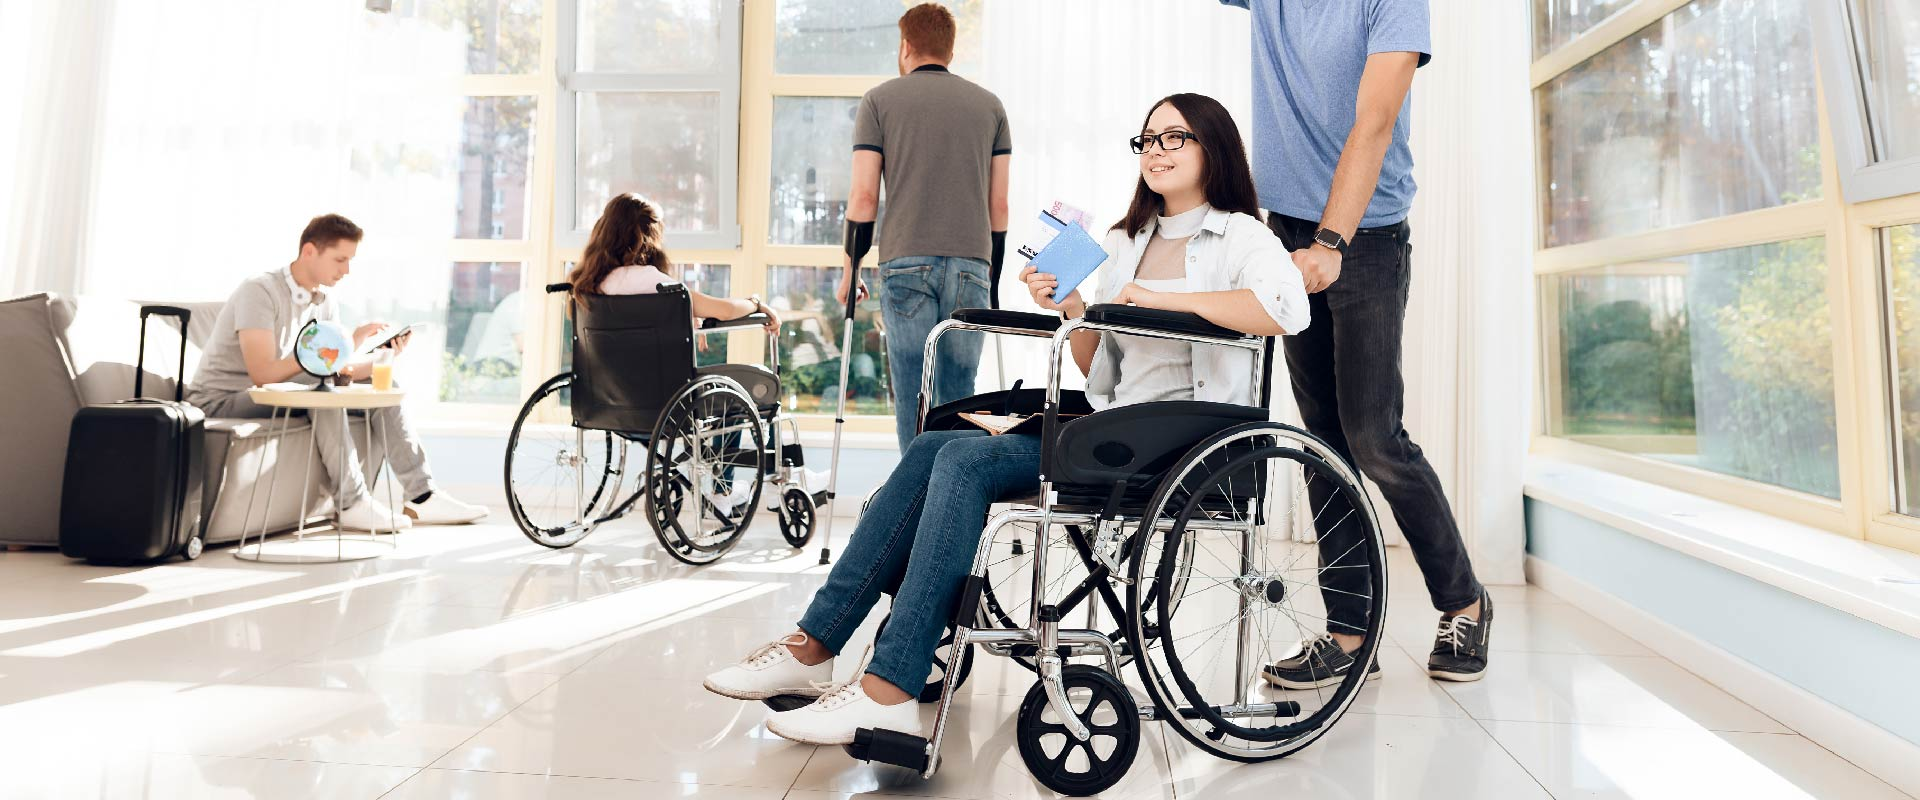
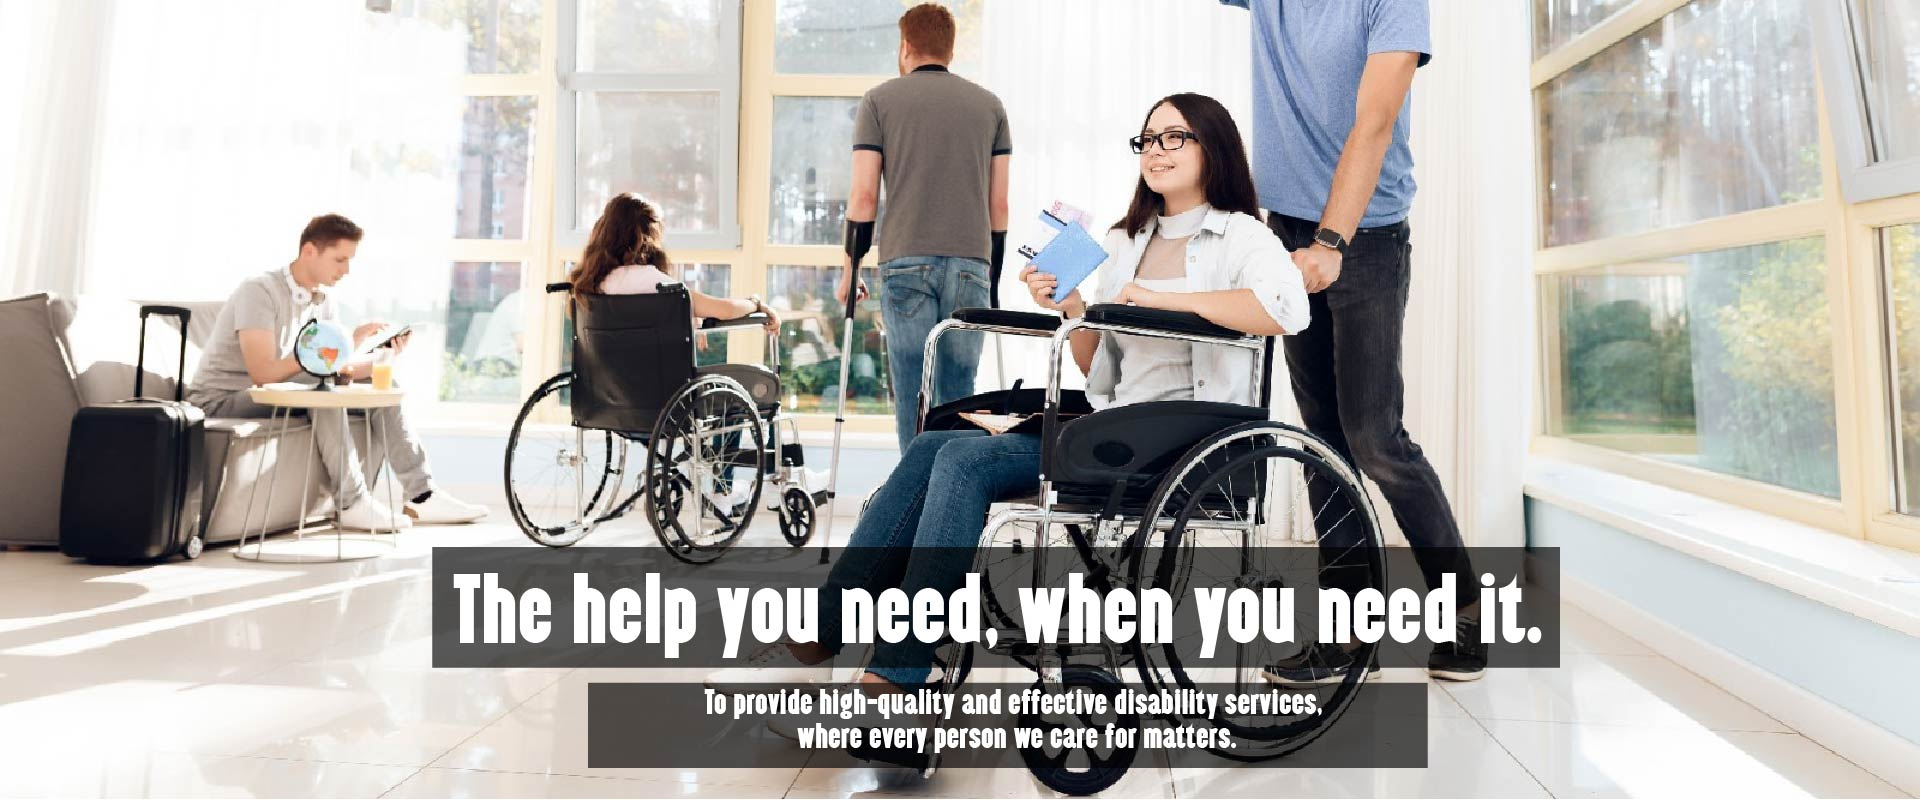
captions added to sliders

diff --git a/pages/index.js b/pages/index.js
@@ -3,7 +3,7 @@
 import dynamic from "next/dynamic";
 import Link from "next/link";
 import { useState } from "react";
-
+import Head from 'next/head'
 import Banner from "../components/layout/Banner";
 import Cards from "../components/layout/Cards";
 import PageData from '../data/pageData.json'
@@ -27,6 +27,14 @@ function Home() {
             {/* <Link href="/#">
                 <a>Link</a></Link>
             </Link> */}
+            <Head>
+                <title>My page title</title>
+                <meta name="viewport" content="initial-scale=1.0, width=device-width" />
+                <meta property="og:title" content="My new title" key="title" />
+                <meta name="description" content="Zaer Support Services is a leading registered NDIS provider in Melbourne, offering
+
+                    a range of services to people with disability and their families or guardians. " key="description" />
+            </Head>
             <Layout>
             <Banner/>
             <section>
